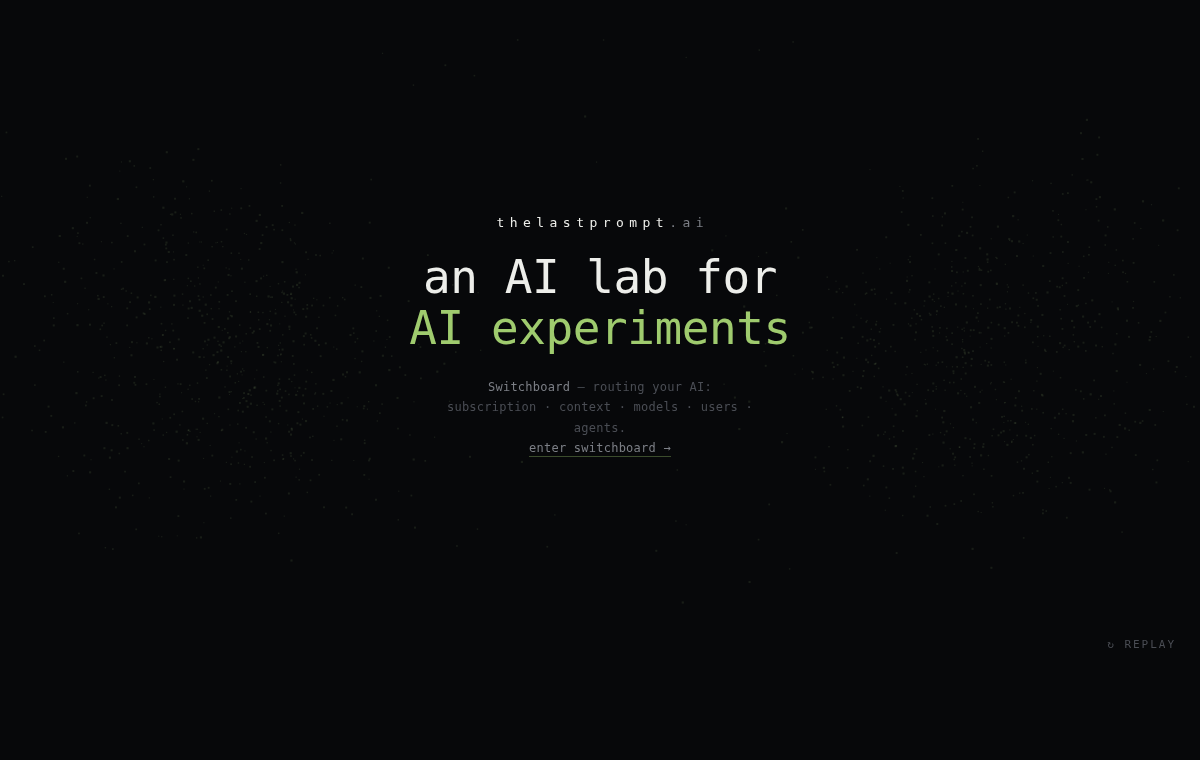
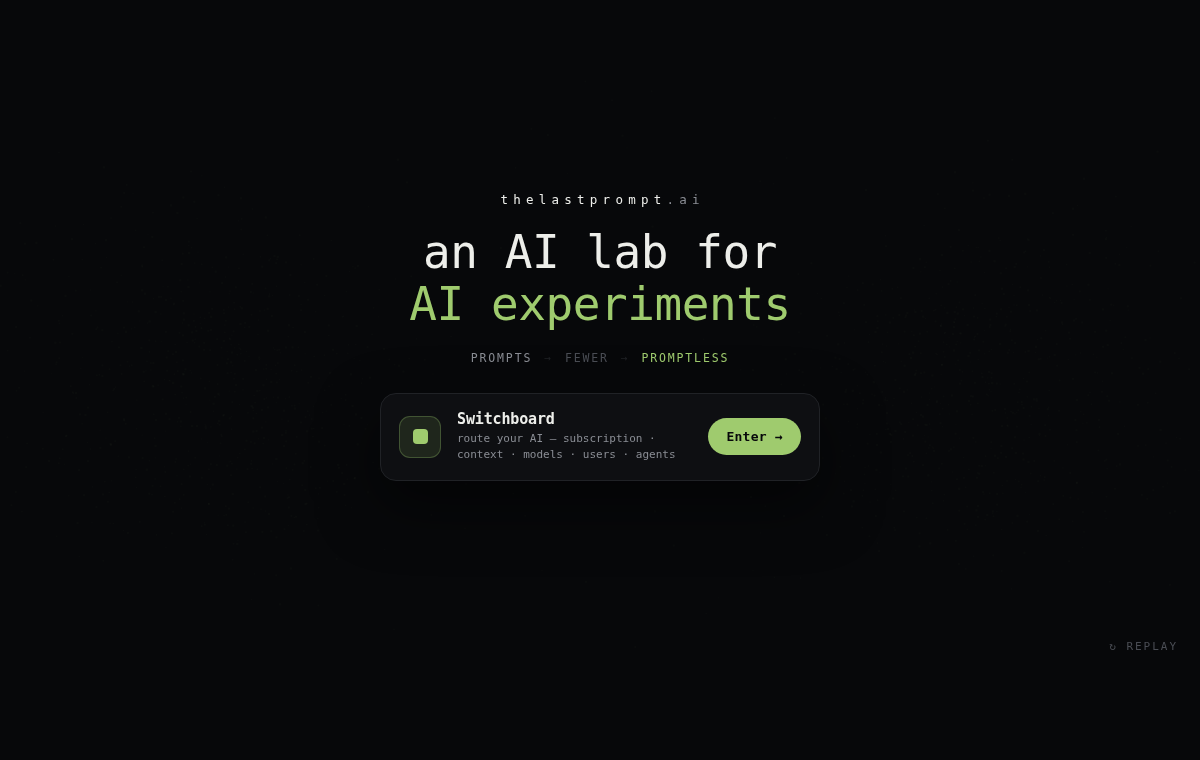
landing: narrative rebuild — one prompt away -> the last prompt closes the gap
Cinematic beat sequence: 'you're one prompt away from superintelligence' over
near-touching hands -> fingertips meet + spark -> particle burst -> 'the last prompt
helps you close that gap' -> final block: tagline, a PROMPTS->FEWER->PROMPTLESS vision
line, and a Switchboard product card with an Enter CTA. Still dependency-free canvas.

diff --git a/content/thelastprompt-landing/index.html b/content/thelastprompt-landing/index.html
@@ -3,229 +3,158 @@
 <link rel="preconnect" href="https://fonts.googleapis.com"><link rel="preconnect" href="https://fonts.gstatic.com" crossorigin>
 <link rel="stylesheet" href="https://fonts.googleapis.com/css2?family=IBM+Plex+Mono:wght@300;400;500;600&display=swap">
 <style>
-:root{--bg:#07080A;--ink:#EDEEEA;--dim:#7C7F86;--faint:#4A4D54;--pop:#9FCB6E;}
+:root{--bg:#07080A;--ink:#EDEEEA;--dim:#8A8D94;--faint:#4A4D54;--pop:#9FCB6E;--line:#202226;--card:#0E0F12;}
 *{margin:0;padding:0;box-sizing:border-box}
 html,body{height:100%}
 body{background:var(--bg);color:var(--ink);overflow:hidden;
-  font-family:"IBM Plex Mono",ui-monospace,"SF Mono",Menlo,monospace;
-  -webkit-font-smoothing:antialiased}
+  font-family:"IBM Plex Mono",ui-monospace,"SF Mono",Menlo,monospace;-webkit-font-smoothing:antialiased}
 #stage{position:fixed;inset:0}
 canvas{position:absolute;inset:0;display:block}
-.overlay{position:absolute;inset:0;display:flex;flex-direction:column;align-items:center;
-  justify-content:center;text-align:center;pointer-events:none;gap:22px;padding:24px}
-.reveal{opacity:0;transform:translateY(8px);transition:opacity 1.1s ease,transform 1.1s ease}
-.reveal.show{opacity:1;transform:none}
-.mark{font-size:13px;letter-spacing:.42em;color:var(--dim);text-transform:lowercase;
-  padding-left:.42em}
+.layer{position:absolute;inset:0;display:flex;flex-direction:column;align-items:center;
+  justify-content:center;text-align:center;pointer-events:none;padding:24px;will-change:opacity,transform}
+.l1 .big,.l2 .big{font-size:clamp(27px,4.8vw,54px);font-weight:300;line-height:1.14;
+  letter-spacing:-.015em;max-width:20ch;text-wrap:balance}
+.big .g{color:var(--pop);font-weight:400}
+/* final block */
+.final{gap:20px}
+.mark{font-size:12.5px;letter-spacing:.42em;color:var(--dim);text-transform:lowercase;padding-left:.42em}
 .mark b{color:var(--ink);font-weight:500}
 .tag{font-size:clamp(26px,4.4vw,46px);font-weight:300;letter-spacing:-.01em;line-height:1.12;
   max-width:16ch;text-wrap:balance}
 .tag .g{color:var(--pop);font-weight:400}
-.sb{pointer-events:auto;font-size:12px;letter-spacing:.02em;color:var(--faint);line-height:1.7;
-  max-width:44ch}
-.sb .k{color:var(--dim)}
-.sb a{color:var(--dim);text-decoration:none;border-bottom:1px solid rgba(159,203,110,.35);
-  padding-bottom:1px}
-.sb a:hover{color:var(--pop)}
-.replay{position:fixed;bottom:22px;right:24px;pointer-events:auto;background:none;border:none;
-  color:var(--faint);font-family:inherit;font-size:11px;letter-spacing:.18em;cursor:pointer;
-  text-transform:uppercase;opacity:0;transition:opacity .8s ease .4s}
-.replay.show{opacity:1}
+.vision{font-size:11.5px;letter-spacing:.16em;color:var(--faint);text-transform:uppercase;
+  display:flex;align-items:center;gap:12px}
+.vision .step{color:var(--faint)}
+.vision .now{color:var(--dim)}
+.vision .end{color:var(--pop)}
+.vision .arr{color:var(--line)}
+.card{pointer-events:auto;margin-top:8px;display:flex;align-items:center;gap:16px;text-align:left;
+  background:var(--card);border:1px solid var(--line);border-radius:16px;padding:16px 18px;
+  min-width:340px;max-width:min(92vw,440px);box-shadow:0 24px 60px rgba(0,0,0,.5)}
+.ctile{width:42px;height:42px;border-radius:11px;flex:none;display:grid;place-items:center;
+  background:rgba(159,203,110,.12);border:1px solid rgba(159,203,110,.28)}
+.ctile i{width:15px;height:15px;border-radius:4px;background:var(--pop);display:block}
+.cmeta{flex:1;min-width:0}
+.ctitle{font-size:15px;font-weight:600;color:var(--ink);letter-spacing:-.01em}
+.cdesc{font-size:11px;line-height:1.5;color:var(--dim);margin-top:3px}
+.enter{flex:none;background:var(--pop);color:#07080A;font-family:inherit;font-weight:600;
+  font-size:13px;letter-spacing:.02em;border:none;border-radius:999px;padding:11px 18px;
+  cursor:pointer;text-decoration:none;white-space:nowrap;transition:transform .15s ease,filter .15s ease}
+.enter:hover{filter:brightness(1.08);transform:translateY(-1px)}
+.replay{position:fixed;bottom:20px;right:22px;pointer-events:auto;background:none;border:none;
+  color:var(--faint);font-family:inherit;font-size:11px;letter-spacing:.18em;cursor:pointer;text-transform:uppercase}
 .replay:hover{color:var(--dim)}
-@media (prefers-reduced-motion:reduce){.reveal{transition:none}}
 </style></head>
 <body>
 <div id="stage"><canvas id="c"></canvas></div>
-<div class="overlay">
-  <div class="mark reveal" id="r1"><b>thelastprompt</b>.ai</div>
-  <div class="tag reveal" id="r2">an AI lab for <span class="g">AI experiments</span></div>
-  <div class="sb reveal" id="r3">
-    <span class="k">Switchboard</span> — routing your AI:
-    subscription · context · models · users · agents.<br>
-    <a href="https://thelastprompt.ai/switchboard/">enter switchboard →</a>
+
+<div class="layer l1" id="line1" style="opacity:0">
+  <div class="big">you're one prompt away from <span class="g">superintelligence</span></div>
+</div>
+<div class="layer l2" id="line2" style="opacity:0">
+  <div class="big">the last prompt helps you <span class="g">close that gap</span></div>
+</div>
+<div class="layer final" id="final" style="opacity:0">
+  <div class="mark"><b>thelastprompt</b>.ai</div>
+  <div class="tag">an AI lab for <span class="g">AI experiments</span></div>
+  <div class="vision"><span class="now">prompts</span><span class="arr">→</span><span class="step">fewer</span><span class="arr">→</span><span class="end">promptless</span></div>
+  <div class="card">
+    <div class="ctile"><i></i></div>
+    <div class="cmeta">
+      <div class="ctitle">Switchboard</div>
+      <div class="cdesc">route your AI — subscription · context · models · users · agents</div>
+    </div>
+    <a class="enter" href="https://thelastprompt.ai/switchboard/">Enter →</a>
   </div>
 </div>
-<button class="replay" id="replay" aria-label="Replay animation">↻ replay</button>
+<button class="replay" id="replay">↻ replay</button>
 
 <script>
 (function(){
   const c=document.getElementById('c'), ctx=c.getContext('2d');
   const reduce=matchMedia('(prefers-reduced-motion:reduce)').matches;
-  let W,H,cx,cy,DPR;
-  function size(){
-    DPR=Math.min(devicePixelRatio||1,2);
-    W=innerWidth;H=innerHeight;cx=W/2;cy=H/2;
-    c.width=W*DPR;c.height=H*DPR;c.style.width=W+'px';c.style.height=H+'px';
-    ctx.setTransform(DPR,0,0,DPR,0,0);
-  }
+  const L1=document.getElementById('line1'),L2=document.getElementById('line2'),FIN=document.getElementById('final');
+  let W,H,cx,cy,DPR,SIM=false;
+  function size(){DPR=Math.min(devicePixelRatio||1,2);W=innerWidth;H=innerHeight;cx=W/2;cy=H/2;
+    c.width=W*DPR;c.height=H*DPR;c.style.width=W+'px';c.style.height=H+'px';ctx.setTransform(DPR,0,0,DPR,0,0);}
   size();
+  const clamp=(v,a,b)=>v<a?a:v>b?b:v;
+  const ramp=(t,a,b)=>clamp((t-a)/(b-a),0,1);
+  const pulse=(t,ia,ib,oa,ob)=>ramp(t,ia,ib)*(1-ramp(t,oa,ob));
 
-  // ---- draw a stylised pointing hand into an offscreen canvas, sample particles ----
   function handPoints(scale){
-    // local box, hand pointing to the RIGHT (fist on left, index extended right)
     const w=Math.round(230*scale), h=Math.round(250*scale);
     const o=document.createElement('canvas'); o.width=w; o.height=h;
-    const g=o.getContext('2d');
-    g.fillStyle='#fff'; g.strokeStyle='#fff';
-    g.lineCap='round'; g.lineJoin='round';
-    const S=scale;
-    // fist / palm
-    g.beginPath();
-    g.moveTo(20*S,95*S);
-    g.quadraticCurveTo(20*S,150*S,55*S,168*S);
-    g.quadraticCurveTo(95*S,185*S,120*S,168*S);
-    g.quadraticCurveTo(140*S,155*S,140*S,128*S);
-    g.quadraticCurveTo(140*S,100*S,120*S,92*S);
-    g.quadraticCurveTo(95*S,78*S,55*S,86*S);
-    g.quadraticCurveTo(28*S,92*S,20*S,95*S);
-    g.closePath(); g.fill();
-    // curled knuckles (three bumps on top of fist)
+    const g=o.getContext('2d'); g.fillStyle='#fff'; g.strokeStyle='#fff'; g.lineCap='round'; g.lineJoin='round'; const S=scale;
+    g.beginPath(); g.moveTo(20*S,95*S);
+    g.quadraticCurveTo(20*S,150*S,55*S,168*S); g.quadraticCurveTo(95*S,185*S,120*S,168*S);
+    g.quadraticCurveTo(140*S,155*S,140*S,128*S); g.quadraticCurveTo(140*S,100*S,120*S,92*S);
+    g.quadraticCurveTo(95*S,78*S,55*S,86*S); g.quadraticCurveTo(28*S,92*S,20*S,95*S); g.closePath(); g.fill();
     for(let i=0;i<3;i++){ g.beginPath(); g.arc((60+i*26)*S,90*S,15*S,0,7); g.fill(); }
-    // thumb (up-left)
-    g.lineWidth=24*S; g.beginPath();
-    g.moveTo(46*S,104*S); g.quadraticCurveTo(30*S,74*S,44*S,52*S); g.stroke();
-    // index finger extended to the right toward center
-    g.lineWidth=26*S; g.beginPath();
-    g.moveTo(120*S,120*S); g.quadraticCurveTo(175*S,116*S,214*S,118*S); g.stroke();
-    // fingertip cap
+    g.lineWidth=24*S; g.beginPath(); g.moveTo(46*S,104*S); g.quadraticCurveTo(30*S,74*S,44*S,52*S); g.stroke();
+    g.lineWidth=26*S; g.beginPath(); g.moveTo(120*S,120*S); g.quadraticCurveTo(175*S,116*S,214*S,118*S); g.stroke();
     g.beginPath(); g.arc(214*S,118*S,13*S,0,7); g.fill();
-
-    const img=g.getImageData(0,0,w,h).data;
-    const pts=[]; const step=Math.max(3,Math.round(4.4*S));
-    for(let y=0;y<h;y+=step) for(let x=0;x<w;x+=step){
-      if(img[(y*w+x)*4+3]>128){
-        pts.push({x:x+(Math.random()-.5)*step, y:y+(Math.random()-.5)*step});
-      }
-    }
-    return {pts,w,h,tipx:214*S,tipy:118*S};
+    const img=g.getImageData(0,0,w,h).data; const pts=[]; const step=Math.max(3,Math.round(4.4*S));
+    for(let y=0;y<h;y+=step) for(let x=0;x<w;x+=step){ if(img[(y*w+x)*4+3]>128){ pts.push({x:x+(Math.random()-.5)*step,y:y+(Math.random()-.5)*step}); } }
+    return {pts,tipx:214*S,tipy:118*S};
   }
-
-  let P=[], hand, handScale, tStart, phase, boomAt=false, textShown=false, SIM=false;
-  const REST_GAP=()=>Math.min(W,H)*0.02;          // gap at contact
-  const OPEN_GAP=()=>Math.max(220,Math.min(W,H)*0.42); // gap when apart
-
+  let P=[], hand, handScale, tStart, boomAt=false, raf;
+  const OPEN=()=>Math.max(220,Math.min(W,H)*0.42);
+  const NEAR=()=>Math.max(46,Math.min(W,H)*0.075);
+  const REST=()=>Math.min(W,H)*0.012;
   function build(){
-    handScale=Math.max(.72,Math.min(1.35, Math.min(W,H)/560));
-    hand=handPoints(handScale);
-    P=[];
-    const openHalf=OPEN_GAP()/2;
-    // left hand: pointing right, tip should land at cx-gap/2 ; place so tip near center-left
-    // right hand: mirror
-    function place(side){
-      const dir=side; // -1 left(points right), +1 right(points left mirrored)
-      for(const p of hand.pts){
-        // local coords centered so tip is the anchor
-        let lx=p.x-hand.tipx, ly=p.y-hand.tipy; // tip at 0,0, hand extends to -x
-        if(side>0){ lx=-lx; } // mirror right hand
-        // home when apart: origin so tip is at cx ∓ openHalf
-        P.push({
-          side, lx, ly,
-          x: cx + (side<0?-1:1)*(W*0.6) + (Math.random()-.5)*140, // start off-screen scattered
-          y: cy + (Math.random()-.5)*H*0.9,
-          vx:0, vy:0, a:0, size:1.1+Math.random()*1.3,
-          seed:Math.random()*6.28
-        });
-      }
-    }
-    place(-1); place(1);
-    tStart=performance.now(); phase='form'; boomAt=false; textShown=false;
-    ['r1','r2','r3'].forEach(id=>document.getElementById(id).classList.remove('show'));
-    document.getElementById('replay').classList.remove('show');
+    handScale=Math.max(.72,Math.min(1.35,Math.min(W,H)/560)); hand=handPoints(handScale); P=[];
+    function place(side){ for(const p of hand.pts){ let lx=p.x-hand.tipx, ly=p.y-hand.tipy; if(side>0){lx=-lx;}
+      P.push({side,lx,ly,x:cx+(side<0?-1:1)*(W*0.6)+(Math.random()-.5)*140,y:cy+(Math.random()-.5)*H*0.9,
+        vx:0,vy:0,a:0,size:1.1+Math.random()*1.3,seed:Math.random()*6.28}); } }
+    place(-1); place(1); tStart=performance.now(); boomAt=false;
+    L1.style.opacity=0;L2.style.opacity=0;FIN.style.opacity=0;
   }
-
-  function tipHalf(t){ // gap half-distance over form/approach
-    // 0..1 form(0-1.1s): stay open ; 1.1-2.6s: close to rest
-    if(t<1.1) return OPEN_GAP()/2;
-    const k=Math.min(1,(t-1.1)/1.5); const e=1-Math.pow(1-k,3);
-    return (OPEN_GAP()/2) + (REST_GAP()/2 - OPEN_GAP()/2)*e;
+  function tipHalf(t){
+    const o=OPEN()/2,n=NEAR()/2,r=REST()/2;
+    if(t<1.0) return o;
+    if(t<2.0){ const e=1-Math.pow(1-ramp(t,1.0,2.0),3); return o+(n-o)*e; }
+    if(t<2.6) return n;
+    const e=1-Math.pow(1-ramp(t,2.6,2.85),2); return n+(r-n)*e;
   }
-
+  function setText(t){
+    const o1=pulse(t,1.15,1.8,2.65,3.0), o2=pulse(t,3.5,4.1,5.15,5.6), of=ramp(t,5.75,6.7);
+    L1.style.opacity=o1; L1.style.transform='translateY('+((1-o1)*8)+'px)';
+    L2.style.opacity=o2; L2.style.transform='translateY('+((1-o2)*8)+'px)';
+    FIN.style.opacity=of; FIN.style.transform='translateY('+((1-of)*10)+'px)';
+    FIN.style.pointerEvents=of>0.5?'auto':'none';
+  }
   function frame(now){
     const t=(now-tStart)/1000;
-    ctx.clearRect(0,0,W,H);
-    ctx.globalCompositeOperation='lighter';
-
-    // trigger explosion
-    if(!boomAt && t>=2.75){
-      boomAt=true; phase='boom';
-      const tx=cx, ty=cy;
-      for(const p of P){
-        const px=cx+(p.side<0?-1:1)*tipHalf(2.6)+p.lx, py=cy+p.ly;
-        const dx=px-tx, dy=py-ty, d=Math.hypot(dx,dy)||1;
-        const force=(1.6+Math.random()*2.4);
-        p.vx=(dx/d)*force*(2.4+Math.random()*3.2) + (Math.random()-.5)*2;
-        p.vy=(dy/d)*force*(2.4+Math.random()*3.2) - (0.6+Math.random()*1.4);
-        p.x=px; p.y=py;
-      }
-    }
-    // reveal text
-    if(!textShown && t>=3.5){
-      textShown=true;
-      document.getElementById('r1').classList.add('show');
-      setTimeout(()=>document.getElementById('r2').classList.add('show'),220);
-      setTimeout(()=>document.getElementById('r3').classList.add('show'),620);
-      setTimeout(()=>document.getElementById('replay').classList.add('show'),1200);
-    }
-
-    // spark glow near contact (2.2s -> 2.75s)
-    if(t>1.9 && t<3.15){
-      const gg=Math.max(0,1-Math.abs(t-2.75)/0.85);
-      const r=18+gg*160;
-      const grad=ctx.createRadialGradient(cx,cy,0,cx,cy,r);
-      grad.addColorStop(0,'rgba(220,255,190,'+(0.9*gg)+')');
-      grad.addColorStop(0.35,'rgba(159,203,110,'+(0.55*gg)+')');
-      grad.addColorStop(1,'rgba(159,203,110,0)');
-      ctx.fillStyle=grad; ctx.beginPath(); ctx.arc(cx,cy,r,0,7); ctx.fill();
-    }
-    // shockwave ring at boom
-    if(boomAt && t<3.7){
-      const rt=(t-2.75)/0.95; const rr=rt*Math.max(W,H)*0.55;
-      ctx.strokeStyle='rgba(159,203,110,'+(0.5*(1-rt))+')'; ctx.lineWidth=2;
-      ctx.beginPath(); ctx.arc(cx,cy,rr,0,7); ctx.stroke();
-    }
-
+    ctx.clearRect(0,0,W,H); ctx.globalCompositeOperation='lighter';
+    if(!boomAt && t>=2.9){ boomAt=true;
+      for(const p of P){ const px=cx+(p.side<0?-1:1)*tipHalf(2.85)+p.lx, py=cy+p.ly;
+        const dx=px-cx,dy=py-cy,d=Math.hypot(dx,dy)||1,f=(1.6+Math.random()*2.4);
+        p.vx=(dx/d)*f*(2.4+Math.random()*3.2)+(Math.random()-.5)*2;
+        p.vy=(dy/d)*f*(2.4+Math.random()*3.2)-(0.6+Math.random()*1.4); p.x=px; p.y=py; } }
+    setText(t);
+    // spark
+    if(t>1.6 && t<3.25){ const gg=Math.max(0,1-Math.abs(t-2.85)/0.9), r=14+gg*170;
+      const gr=ctx.createRadialGradient(cx,cy,0,cx,cy,r);
+      gr.addColorStop(0,'rgba(224,255,196,'+(0.92*gg)+')'); gr.addColorStop(.35,'rgba(159,203,110,'+(0.5*gg)+')');
+      gr.addColorStop(1,'rgba(159,203,110,0)'); ctx.fillStyle=gr; ctx.beginPath(); ctx.arc(cx,cy,r,0,7); ctx.fill(); }
+    if(boomAt && t<3.85){ const rt=(t-2.9)/0.95, rr=rt*Math.max(W,H)*0.55;
+      ctx.strokeStyle='rgba(159,203,110,'+(0.5*(1-rt))+')'; ctx.lineWidth=2; ctx.beginPath(); ctx.arc(cx,cy,rr,0,7); ctx.stroke(); }
     const half=tipHalf(t);
-    for(const p of P){
-      if(!boomAt){
-        // ease current -> home(apart/closing)
-        const hx=cx+(p.side<0?-1:1)*half+p.lx, hy=cy+p.ly;
-        const spd=t<1.1?0.06:0.14;
-        p.x+=(hx-p.x)*spd; p.y+=(hy-p.y)*spd;
-        p.a+=(Math.min(1,t/0.9)-p.a)*0.1;
-        var col='rgba(210,224,196,'+(0.55*p.a)+')';
-        // fingertip particles brighten as they near contact
-        if(p.lx>-26*handScale){ col='rgba(190,232,150,'+(0.8*p.a)+')'; }
-      }else{
-        p.vx*=0.955; p.vy*=0.955; p.vy+=0.015; // slight settle
-        p.x+=p.vx; p.y+=p.vy;
-        p.a*=0.986;
-        col='rgba(176,214,140,'+(0.7*p.a)+')';
-      }
-      ctx.fillStyle=col;
-      const s=p.size*(boomAt?0.9:1);
-      ctx.fillRect(p.x, p.y, s, s);
-    }
-
+    for(const p of P){ let col;
+      if(!boomAt){ const hx=cx+(p.side<0?-1:1)*half+p.lx, hy=cy+p.ly, spd=t<1.0?0.06:0.14;
+        p.x+=(hx-p.x)*spd; p.y+=(hy-p.y)*spd; p.a+=(Math.min(1,t/0.9)-p.a)*0.1;
+        col='rgba(210,224,196,'+(0.55*p.a)+')'; if(p.lx>-26*handScale){ col='rgba(190,232,150,'+(0.82*p.a)+')'; } }
+      else{ p.vx*=0.955; p.vy*=0.955; p.vy+=0.015; p.x+=p.vx; p.y+=p.vy; p.a*=0.986; col='rgba(176,214,140,'+(0.7*p.a)+')'; }
+      ctx.fillStyle=col; const s=p.size*(boomAt?0.9:1); ctx.fillRect(p.x,p.y,s,s); }
     ctx.globalCompositeOperation='source-over';
-    // after settle, keep faint ambient drift
-    if(boomAt && t>4.5){
-      for(const p of P){ p.x+=Math.sin(now/1400+p.seed)*0.06; p.y+=Math.cos(now/1600+p.seed)*0.05; }
-    }
+    if(boomAt && t>4.6){ for(const p of P){ p.x+=Math.sin(now/1400+p.seed)*0.06; p.y+=Math.cos(now/1600+p.seed)*0.05; } }
     if(!SIM) raf=requestAnimationFrame(frame);
   }
-
-  let raf;
-  function start(){ build(); if(reduce){ // static final
-      document.getElementById('r1').classList.add('show');
-      document.getElementById('r2').classList.add('show');
-      document.getElementById('r3').classList.add('show');
-      document.getElementById('replay').classList.add('show');
-      return;
-    } cancelAnimationFrame(raf); raf=requestAnimationFrame(frame); }
-
-  addEventListener('resize',()=>{size();});
+  function start(){ build(); if(reduce){ L1.style.opacity=0;L2.style.opacity=0;FIN.style.opacity=1;FIN.style.pointerEvents='auto'; return; }
+    cancelAnimationFrame(raf); raf=requestAnimationFrame(frame); }
+  addEventListener('resize',size);
   document.getElementById('replay').addEventListener('click',start);
-
   start();
 })();
 </script>
